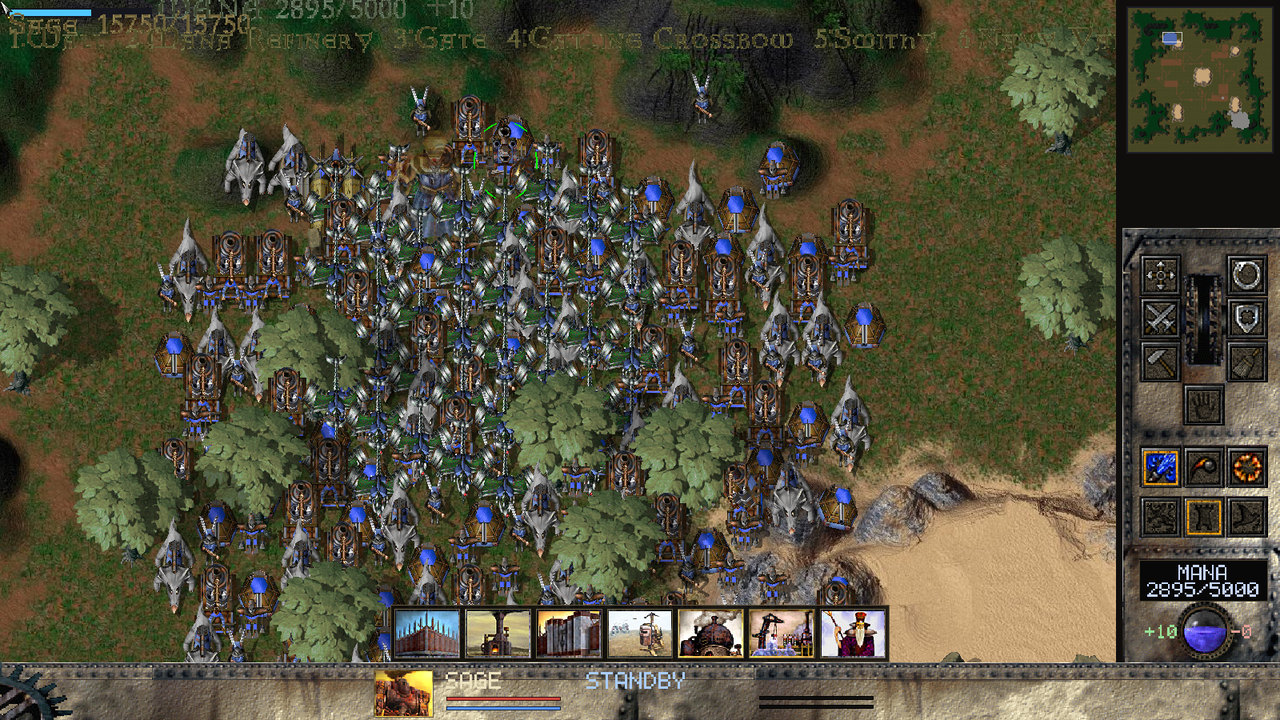
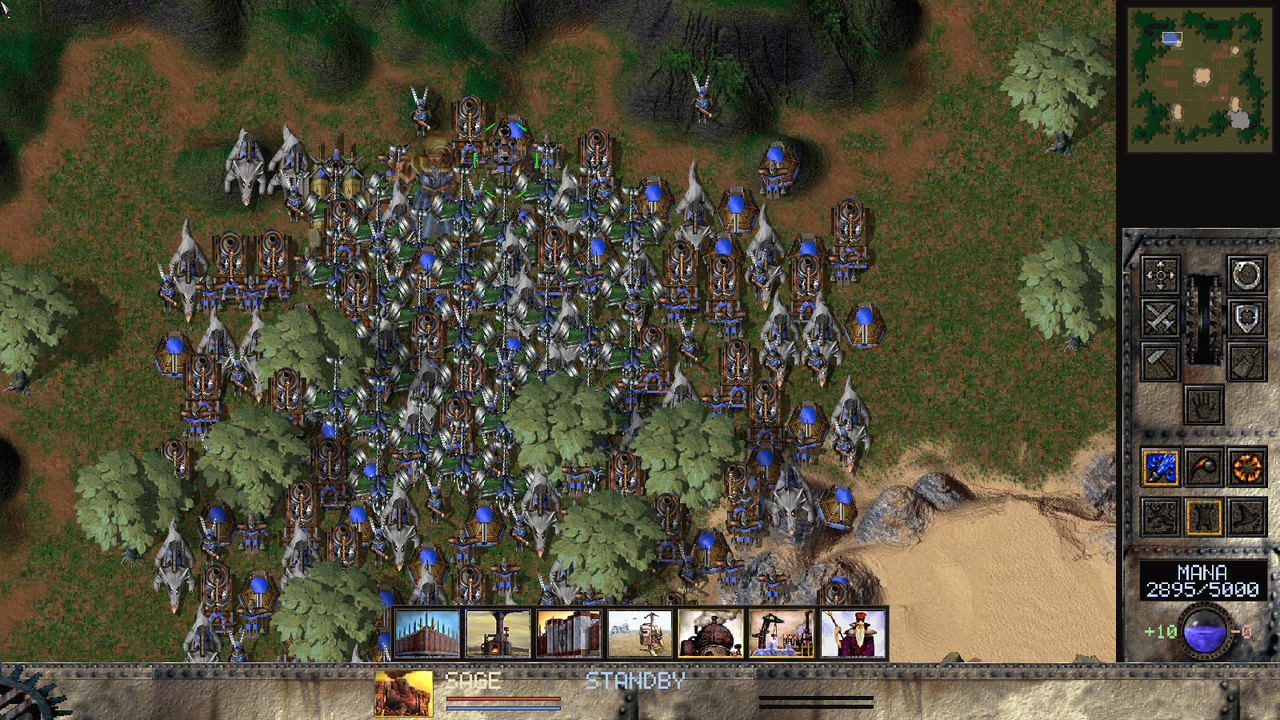
Recapture the Creon side shot after the Creon panel fix
0393b54 loads Iron Plague's ButtonPanel/InfoPanel art, so the legacy
top-left text readout no longer appears for Creon. The other four side
shots were recaptured too and their panels match pixel for pixel, so
they are unchanged. Benchmark captions now say the badge counts down
the remaining time.

Claude-Session: https://claude.ai/code/session_01TurC2NS2WoxSjcFt7tEsjT

diff --git a/docs/img/README.md b/docs/img/README.md
@@ -54,13 +54,13 @@ replace them. The unchanged views contain no version text and still match 0.7.26
 | Image | Scene |
 | --- | --- |
 | `hud-annotated.jpg` | The same setup as `hud.jpg`, captured at 1600 × 900 with 1× zoom. Markers: 1 minimap, 2 stats panel, 3 orders, 4 weapons and stances, 5 mana, 6 build menu, 7 information bar, 8 selected Monarch |
-| `side-aramon.jpg` … `side-creon.jpg` | One per side. A local-server game with a **stress-test start** (250-unit cap, Normal AI opponent), about 10 s in. The player's Monarch is selected: Elsin, Lokken, Kirenna, Thirsha or the Sage. Each shows that side's interface and build menu. In the Creon picture, the engine's text readout of mana and the selection also appears at the top left |
+| `side-aramon.jpg` … `side-creon.jpg` | One per side. A local-server game with a **stress-test start** (250-unit cap, Normal AI opponent), about 10 s in. The player's Monarch is selected: Elsin, Lokken, Kirenna, Thirsha or the Sage. Each shows that side's interface and build menu. `side-creon.jpg` was recaptured after 0393b54 (Creon's Iron Plague panel art); the other four were unchanged by that fix, verified by pixel comparison of the panels |
 | `shift-queue.jpg` | Elsin with a move and three Shift-queued moves (**scripted orders**), Shift held, about 3 s after the orders. 1.7× zoom |
 | `flyers-retail-legion.jpg` | **Development scene, spawned.** The `flyers.jpg` formation and order, 22 s in, run once in Retail and once in Legion. The same 1.05× camera is used for both, and the two captures are placed side by side with labels |
 | `options-graphics.jpg` | Options screen scrolled to Graphics, cropped to the panel. Every Graphics setting is at its default; Display shows the windowed capture profile |
 | `campaign-briefing.jpg` | *Book of Darien* chapter 1 briefing over the paused battlefield, from a direct mission launch |
 | `replay.jpg` | Replay playback of a recorded local-server game, 9 s of 16 s, with the time bar. **Stress-test start**: an Aramon army given one Legion move order (**scripted orders**) |
-| `benchmark.jpg` | Benchmark run (Absurd), 55 s in: Zhon and Creon armies, with Creon Neo Dragons breathing fire; scaled from 1920 × 1080 |
+| `benchmark.jpg` | Benchmark run (Absurd), 55 s in; the BENCHMARKING badge counts down the remaining time (0:05 of 60 s): Zhon and Creon armies, with Creon Neo Dragons breathing fire; scaled from 1920 × 1080 |
 | `scorecard.jpg` | F4 scorecard over a benchmark battle (Absurd), 55 s in, at 1.1× zoom |
 
 The guide also uses `title.jpg`, `lobby.jpg`, `room.jpg`, `campaign.jpg`,

diff --git a/docs/user-guide.md b/docs/user-guide.md
@@ -1214,7 +1214,7 @@ seconds.
 
 ![A benchmark battle between Zhon and Creon armies, with Creon Neo Dragons breathing blue fire](img/guide/benchmark.jpg)
 
-*A benchmark run at Absurd intensity, 55 seconds in.*
+*A benchmark run at Absurd intensity, 55 seconds in. The badge at the top counts down the time remaining.*
 
 ---
 
